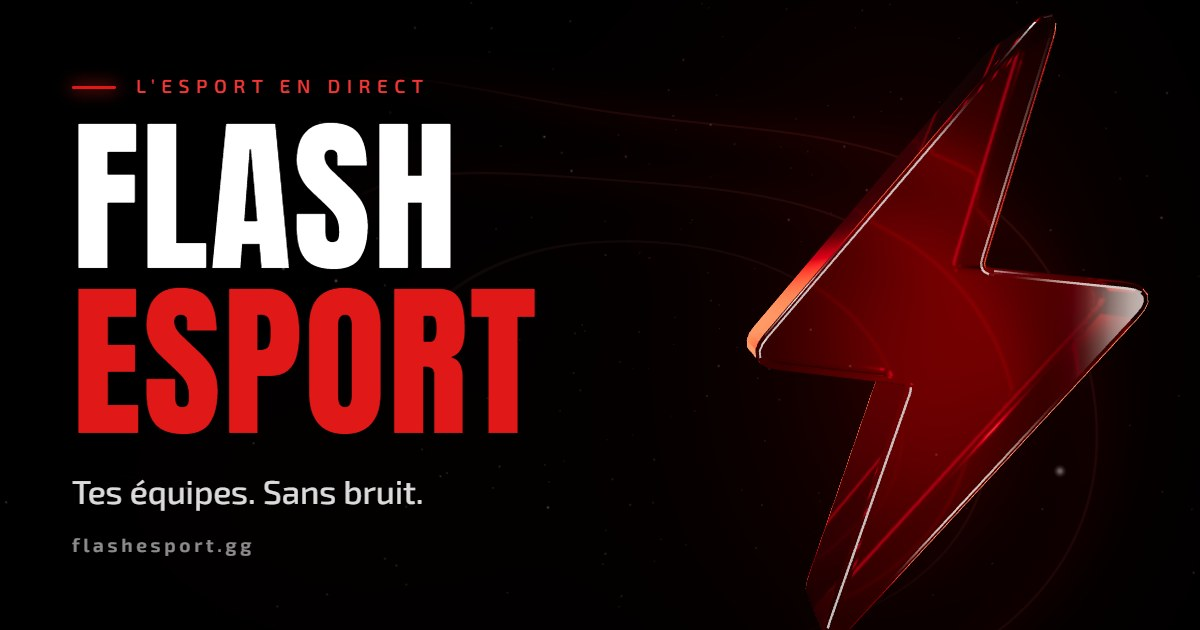
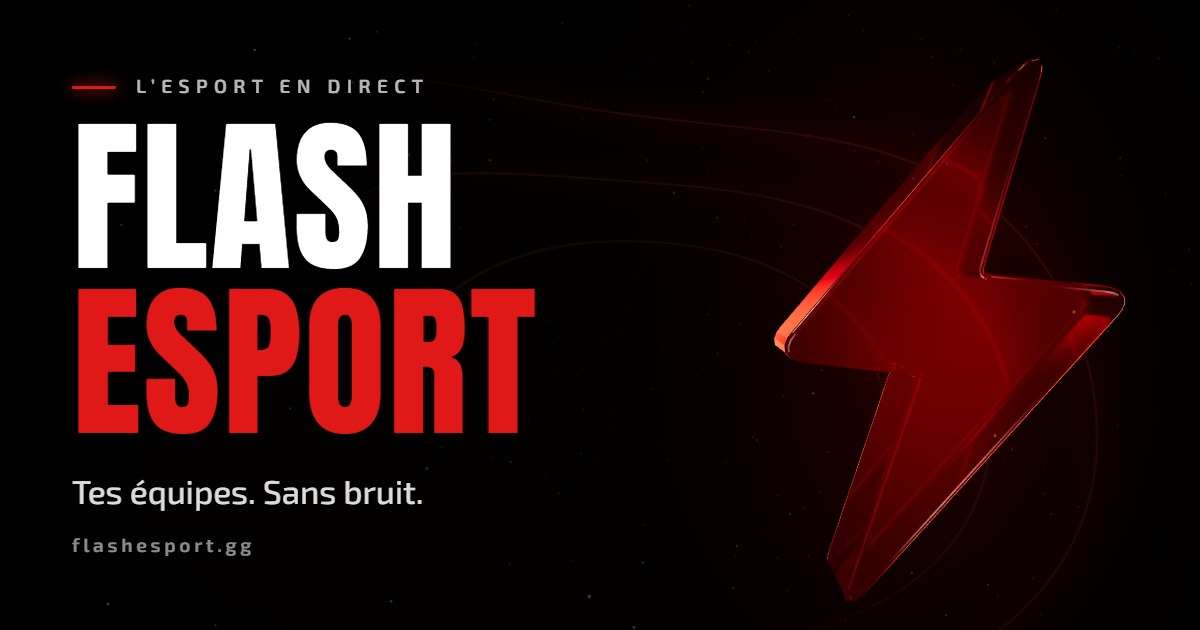
troisième passe : reflets du verre plus rouges pendant la recomposition, tour de caméra en avance dès 56 %, croisement texte / éclair décalé vers 9 %, bloc final iPhone sous l'en-tête corrigé, image de partage régénérée
Claude-Session: https://claude.ai/code/session_013u129ipLgSJq7hNFvTtcP9

Changed region(s): [[0.6167, 0.0302, 0.9558, 1.0], [0.0925, 0.1206, 0.37, 0.1508]]

diff --git a/assets/js/app.js b/assets/js/app.js
@@ -164,13 +164,13 @@ function createGlassEnvironment() {
     const studio = new THREE.Scene();
     studio.background = new THREE.Color('#0a0606');
     const panels = [
-        [2.8, 8, -4, 2, 3, '#ff9a8c', 1.5],      // grande boîte : rouge clair, pour que les faces ne blanchissent pas
-        [0.45, 7, 3, 1, 2, '#ffe6e0', 3.4],      // bandes fines blanches : elles dessinent les arêtes
-        [5, 0.7, 0, 5, -1, '#ffd2c8', 2.6],
+        [2.8, 8, -4, 2, 3, '#e8493c', 1.15],      // grande boîte : rouge clair, pour que les faces ne blanchissent pas
+        [0.45, 7, 3, 1, 2, '#ffe6e0', 3.2],      // bandes fines blanches : elles dessinent les arêtes
+        [5, 0.7, 0, 5, -1, '#ffb4a6', 1.9],
         [0.5, 6, -2, 0, -4, '#e01818', 3.4],
         [1.0, 5, 3, -1, -3, '#ff4a3a', 2.6],
         [4, 0.35, 0, -3, 3, '#ff2020', 3.0],
-        [0.16, 5, -3, 0, 2, '#ffffff', 5.0],
+        [0.16, 5, -3, 0, 2, '#ffffff', 4.5],
         [0.35, 4, 4, 0, -2, '#ff5a3c', 2.0]
     ];
     for (const [w, h, x, y, z, color, intensity] of panels) {
@@ -700,7 +700,7 @@ function getOrbit(scroll) {
 function chapterWeights(scroll) {
     // Chaque changement de cadrage est centré sur le seuil du chapitre : l'éclair croise la colonne de
     // texte au moment où l'ancien texte s'efface et avant que le nouveau n'apparaisse.
-    const a = smoothScrollRange(scroll, 0.05, 0.13);
+    const a = layout.portrait ? smoothScrollRange(scroll, 0.08, 0.12) : smoothScrollRange(scroll, 0.065, 0.135);
     const b = smoothScrollRange(scroll, 0.30, 0.37);
     const c = smoothScrollRange(scroll, 0.62, 0.72);
     return [1 - a, a - b, b - c, c];
@@ -759,7 +759,7 @@ function smoothZones(amount) {
 function orbitAngle(scroll) {
     // L'avance atteint 0,145 tour à 80 % (l'éclair reformé est alors presque de face), puis se résorbe
     // linéairement jusqu'à la fin : la rotation reste toujours dans le même sens.
-    const lead = 0.145 * (scroll <= 0.80 ? smoothScrollRange(scroll, 0.60, 0.80) : 1 - (scroll - 0.80) / 0.20);
+    const lead = 0.145 * (scroll <= 0.80 ? smoothScrollRange(scroll, 0.56, 0.76) : 1 - (scroll - 0.80) / 0.20);
     return (scroll + lead) * Math.PI * 2.0;
 }
 
@@ -1420,7 +1420,8 @@ function updateFinal() {
         finalPinned = over;
         // Le bloc remonte juste ce qu'il faut pour que ses boutons restent visibles au-dessus du pied de
         // page, sans jamais passer sous l'en-tête.
-        const top = contactCardElement.offsetTop, bottom = top + contactCardElement.offsetHeight;
+        const sectionTop = window.innerHeight - contactSection.offsetHeight;      // haut de la section quand elle est épinglée
+        const top = sectionTop + contactCardElement.offsetTop, bottom = top + contactCardElement.offsetHeight;
         const header = layout.portrait ? 62 : 70;
         const lift = clamp(bottom + 28 - (window.innerHeight - over), 0, Math.max(0, top - header - 18));
         contactSection.style.transform = over > 0 ? `translate3d(0, ${over - lift}px, 0)` : '';

diff --git a/index.html b/index.html
@@ -14,9 +14,9 @@
 <link rel="apple-touch-icon" href="assets/img/apple-touch-icon.png">
 <link rel="preload" href="assets/fonts/anton-400.woff2" as="font" type="font/woff2" crossorigin>
 <link rel="preload" href="assets/fonts/exo2-400.woff2" as="font" type="font/woff2" crossorigin>
-<link rel="stylesheet" href="assets/css/tokens.css?v=20261006-1128">
-<link rel="stylesheet" href="assets/css/base.css?v=20261006-1128">
-<link rel="stylesheet" href="assets/css/accueil.css?v=20261006-1128">
+<link rel="stylesheet" href="assets/css/tokens.css?v=20261006-1152">
+<link rel="stylesheet" href="assets/css/base.css?v=20261006-1152">
+<link rel="stylesheet" href="assets/css/accueil.css?v=20261006-1152">
 <!-- /gabarit:tete -->
 <title>Flash eSport — L'app des résultats eSport en direct</title>
 <meta name="description" content="Flash eSport, l'application française des résultats eSport : scores en direct, calendrier et tournois de tes équipes sur CS2, LoL, VALORANT, Dota 2, R6 et Rocket League.">
@@ -106,7 +106,7 @@
     <span class="loader-bar"><span id="loader-fill"></span></span>
   </div>
 </div>
-<script src="assets/js/demarrage.js?v=20261006-1128"></script>
+<script src="assets/js/demarrage.js?v=20261006-1152"></script>
 <!-- gabarit:entete -->
 <a class="lien-evitement" href="#contenu">Aller au contenu</a>
 <header class="entete">
@@ -305,8 +305,8 @@
 <div class="cursor-label" aria-hidden="true">000</div>
 <canvas id="webgl" aria-hidden="true"></canvas>
 <!-- gabarit:scripts -->
-<script src="assets/js/site.js?v=20261006-1128" defer></script>
-<script type="module" src="assets/js/accueil.js?v=20261006-1128"></script>
+<script src="assets/js/site.js?v=20261006-1152" defer></script>
+<script type="module" src="assets/js/accueil.js?v=20261006-1152"></script>
 <!-- /gabarit:scripts -->
 </body>
 </html>

diff --git a/telechargement.html b/telechargement.html
@@ -14,9 +14,9 @@
 <link rel="apple-touch-icon" href="assets/img/apple-touch-icon.png">
 <link rel="preload" href="assets/fonts/anton-400.woff2" as="font" type="font/woff2" crossorigin>
 <link rel="preload" href="assets/fonts/exo2-400.woff2" as="font" type="font/woff2" crossorigin>
-<link rel="stylesheet" href="assets/css/tokens.css?v=20261006-1128">
-<link rel="stylesheet" href="assets/css/base.css?v=20261006-1128">
-<link rel="stylesheet" href="assets/css/pages.css?v=20261006-1128">
+<link rel="stylesheet" href="assets/css/tokens.css?v=20261006-1152">
+<link rel="stylesheet" href="assets/css/base.css?v=20261006-1152">
+<link rel="stylesheet" href="assets/css/pages.css?v=20261006-1152">
 <!-- /gabarit:tete -->
 <title>Téléchargement — Flash eSport</title>
 <meta name="description" content="Télécharger Flash eSport, l'application gratuite de résultats eSport : très bientôt sur iPhone (App Store), puis sur Android (Google Play).">
@@ -117,7 +117,7 @@
 </footer>
 <!-- /gabarit:pied -->
 <!-- gabarit:scripts -->
-<script src="assets/js/site.js?v=20261006-1128" defer></script>
+<script src="assets/js/site.js?v=20261006-1152" defer></script>
 <!-- /gabarit:scripts -->
 </body>
 </html>

diff --git a/mentions-legales.html b/mentions-legales.html
@@ -14,9 +14,9 @@
 <link rel="apple-touch-icon" href="assets/img/apple-touch-icon.png">
 <link rel="preload" href="assets/fonts/anton-400.woff2" as="font" type="font/woff2" crossorigin>
 <link rel="preload" href="assets/fonts/exo2-400.woff2" as="font" type="font/woff2" crossorigin>
-<link rel="stylesheet" href="assets/css/tokens.css?v=20261006-1128">
-<link rel="stylesheet" href="assets/css/base.css?v=20261006-1128">
-<link rel="stylesheet" href="assets/css/pages.css?v=20261006-1128">
+<link rel="stylesheet" href="assets/css/tokens.css?v=20261006-1152">
+<link rel="stylesheet" href="assets/css/base.css?v=20261006-1152">
+<link rel="stylesheet" href="assets/css/pages.css?v=20261006-1152">
 <!-- /gabarit:tete -->
 <title>Mentions légales — Flash eSport</title>
 <meta name="description" content="Mentions légales du site et de l'application Flash eSport.">
@@ -124,7 +124,7 @@ Contact : <a href="mailto:flashesport.app@gmail.com">flashesport.app@gmail.com</
 </footer>
 <!-- /gabarit:pied -->
 <!-- gabarit:scripts -->
-<script src="assets/js/site.js?v=20261006-1128" defer></script>
+<script src="assets/js/site.js?v=20261006-1152" defer></script>
 <!-- /gabarit:scripts -->
 </body>
 </html>

diff --git a/faq.html b/faq.html
@@ -14,9 +14,9 @@
 <link rel="apple-touch-icon" href="assets/img/apple-touch-icon.png">
 <link rel="preload" href="assets/fonts/anton-400.woff2" as="font" type="font/woff2" crossorigin>
 <link rel="preload" href="assets/fonts/exo2-400.woff2" as="font" type="font/woff2" crossorigin>
-<link rel="stylesheet" href="assets/css/tokens.css?v=20261006-1128">
-<link rel="stylesheet" href="assets/css/base.css?v=20261006-1128">
-<link rel="stylesheet" href="assets/css/pages.css?v=20261006-1128">
+<link rel="stylesheet" href="assets/css/tokens.css?v=20261006-1152">
+<link rel="stylesheet" href="assets/css/base.css?v=20261006-1152">
+<link rel="stylesheet" href="assets/css/pages.css?v=20261006-1152">
 <!-- /gabarit:tete -->
 <title>FAQ — Flash eSport</title>
 <meta name="description" content="Jeux couverts, compte, prix, Android, données : les réponses aux questions fréquentes sur l'app Flash eSport.">
@@ -136,7 +136,7 @@
 </footer>
 <!-- /gabarit:pied -->
 <!-- gabarit:scripts -->
-<script src="assets/js/site.js?v=20261006-1128" defer></script>
+<script src="assets/js/site.js?v=20261006-1152" defer></script>
 <!-- /gabarit:scripts -->
 </body>
 </html>

diff --git a/cgu.html b/cgu.html
@@ -14,9 +14,9 @@
 <link rel="apple-touch-icon" href="assets/img/apple-touch-icon.png">
 <link rel="preload" href="assets/fonts/anton-400.woff2" as="font" type="font/woff2" crossorigin>
 <link rel="preload" href="assets/fonts/exo2-400.woff2" as="font" type="font/woff2" crossorigin>
-<link rel="stylesheet" href="assets/css/tokens.css?v=20261006-1128">
-<link rel="stylesheet" href="assets/css/base.css?v=20261006-1128">
-<link rel="stylesheet" href="assets/css/pages.css?v=20261006-1128">
+<link rel="stylesheet" href="assets/css/tokens.css?v=20261006-1152">
+<link rel="stylesheet" href="assets/css/base.css?v=20261006-1152">
+<link rel="stylesheet" href="assets/css/pages.css?v=20261006-1152">
 <!-- /gabarit:tete -->
 <title>Conditions générales d'utilisation — Flash eSport</title>
 <meta name="description" content="Conditions générales d'utilisation de l'application et du site Flash eSport.">
@@ -224,7 +224,7 @@
 </footer>
 <!-- /gabarit:pied -->
 <!-- gabarit:scripts -->
-<script src="assets/js/site.js?v=20261006-1128" defer></script>
+<script src="assets/js/site.js?v=20261006-1152" defer></script>
 <!-- /gabarit:scripts -->
 </body>
 </html>

diff --git a/contact.html b/contact.html
@@ -14,9 +14,9 @@
 <link rel="apple-touch-icon" href="assets/img/apple-touch-icon.png">
 <link rel="preload" href="assets/fonts/anton-400.woff2" as="font" type="font/woff2" crossorigin>
 <link rel="preload" href="assets/fonts/exo2-400.woff2" as="font" type="font/woff2" crossorigin>
-<link rel="stylesheet" href="assets/css/tokens.css?v=20261006-1128">
-<link rel="stylesheet" href="assets/css/base.css?v=20261006-1128">
-<link rel="stylesheet" href="assets/css/pages.css?v=20261006-1128">
+<link rel="stylesheet" href="assets/css/tokens.css?v=20261006-1152">
+<link rel="stylesheet" href="assets/css/base.css?v=20261006-1152">
+<link rel="stylesheet" href="assets/css/pages.css?v=20261006-1152">
 <!-- /gabarit:tete -->
 <title>Contact — Flash eSport</title>
 <meta name="description" content="Une question, un bug ou une idée ? Écris à Flash eSport par e-mail, ou retrouve-nous sur Instagram et X.">
@@ -117,7 +117,7 @@
 </footer>
 <!-- /gabarit:pied -->
 <!-- gabarit:scripts -->
-<script src="assets/js/site.js?v=20261006-1128" defer></script>
+<script src="assets/js/site.js?v=20261006-1152" defer></script>
 <!-- /gabarit:scripts -->
 </body>
 </html>

diff --git a/privacy.html b/privacy.html
@@ -14,9 +14,9 @@
 <link rel="apple-touch-icon" href="assets/img/apple-touch-icon.png">
 <link rel="preload" href="assets/fonts/anton-400.woff2" as="font" type="font/woff2" crossorigin>
 <link rel="preload" href="assets/fonts/exo2-400.woff2" as="font" type="font/woff2" crossorigin>
-<link rel="stylesheet" href="assets/css/tokens.css?v=20261006-1128">
-<link rel="stylesheet" href="assets/css/base.css?v=20261006-1128">
-<link rel="stylesheet" href="assets/css/pages.css?v=20261006-1128">
+<link rel="stylesheet" href="assets/css/tokens.css?v=20261006-1152">
+<link rel="stylesheet" href="assets/css/base.css?v=20261006-1152">
+<link rel="stylesheet" href="assets/css/pages.css?v=20261006-1152">
 <!-- /gabarit:tete -->
 <title>Politique de confidentialité — Flash eSport</title>
 <meta name="description" content="Comment Flash eSport collecte, utilise et protège vos données personnelles.">
@@ -311,7 +311,7 @@
 </footer>
 <!-- /gabarit:pied -->
 <!-- gabarit:scripts -->
-<script src="assets/js/site.js?v=20261006-1128" defer></script>
+<script src="assets/js/site.js?v=20261006-1152" defer></script>
 <!-- /gabarit:scripts -->
 </body>
 </html>

diff --git a/404.html b/404.html
@@ -14,9 +14,9 @@
 <link rel="apple-touch-icon" href="/assets/img/apple-touch-icon.png">
 <link rel="preload" href="/assets/fonts/anton-400.woff2" as="font" type="font/woff2" crossorigin>
 <link rel="preload" href="/assets/fonts/exo2-400.woff2" as="font" type="font/woff2" crossorigin>
-<link rel="stylesheet" href="/assets/css/tokens.css?v=20261006-1128">
-<link rel="stylesheet" href="/assets/css/base.css?v=20261006-1128">
-<link rel="stylesheet" href="/assets/css/pages.css?v=20261006-1128">
+<link rel="stylesheet" href="/assets/css/tokens.css?v=20261006-1152">
+<link rel="stylesheet" href="/assets/css/base.css?v=20261006-1152">
+<link rel="stylesheet" href="/assets/css/pages.css?v=20261006-1152">
 <!-- /gabarit:tete -->
 <title>Page introuvable — Flash eSport</title>
 <meta name="description" content="Cette page n'existe pas ou a été déplacée.">
@@ -98,7 +98,7 @@
 </footer>
 <!-- /gabarit:pied -->
 <!-- gabarit:scripts -->
-<script src="/assets/js/site.js?v=20261006-1128" defer></script>
+<script src="/assets/js/site.js?v=20261006-1152" defer></script>
 <!-- /gabarit:scripts -->
 </body>
 </html>

diff --git a/assets/css/base.css b/assets/css/base.css
@@ -84,7 +84,7 @@ button { font: inherit; color: inherit; }
   .titre .rouge:not(.line), .line.rouge .line-inner, .logo-texte span {
     --arete: 9.6%;      /* hauteur des capitales d'Anton dans la boîte de ligne : l'arête claire s'y cale, pas sur les accents */
     background-image:
-      linear-gradient(104deg, transparent 47.4%, var(--titre-balayage) 50%, transparent 52.6%),
+      linear-gradient(104deg, transparent 48.5%, var(--titre-balayage) 50%, transparent 51.5%),
       linear-gradient(180deg, var(--rouge-lumiere) 0%, var(--rouge-lumiere) calc(var(--arete) - 0.2%), var(--rouge-arete) var(--arete), var(--rouge-arete) calc(var(--arete) + 1.5%), var(--rouge-lumiere) calc(var(--arete) + 4.5%), var(--rouge) 56%, var(--rouge-profond) 100%);
     background-size: 300% 100%, 100% 100%;
     background-position: 100% 0, 0 0;      /* le balayage attend hors champ */
